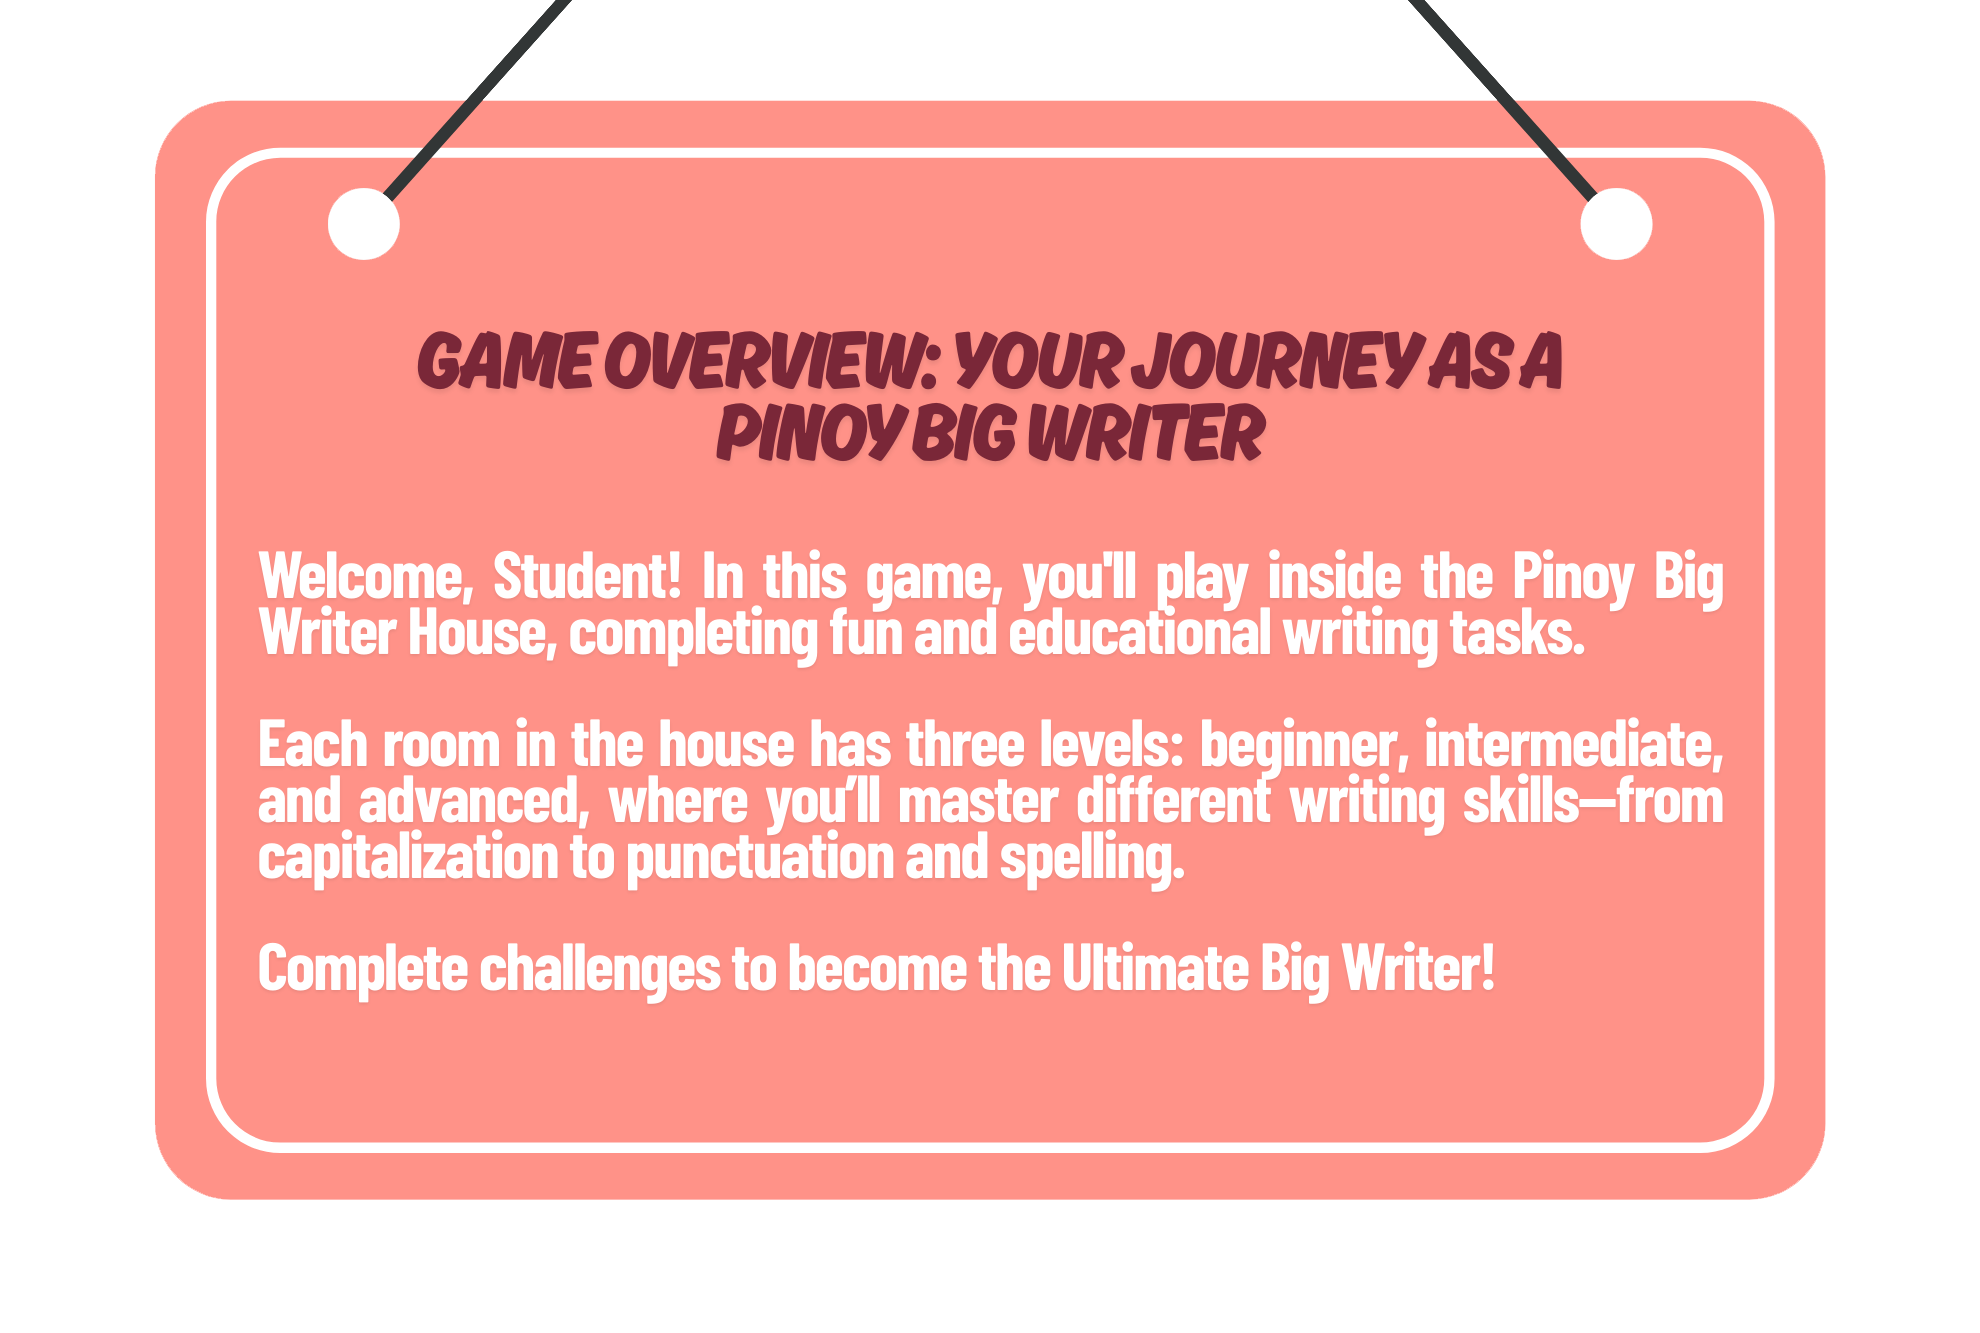
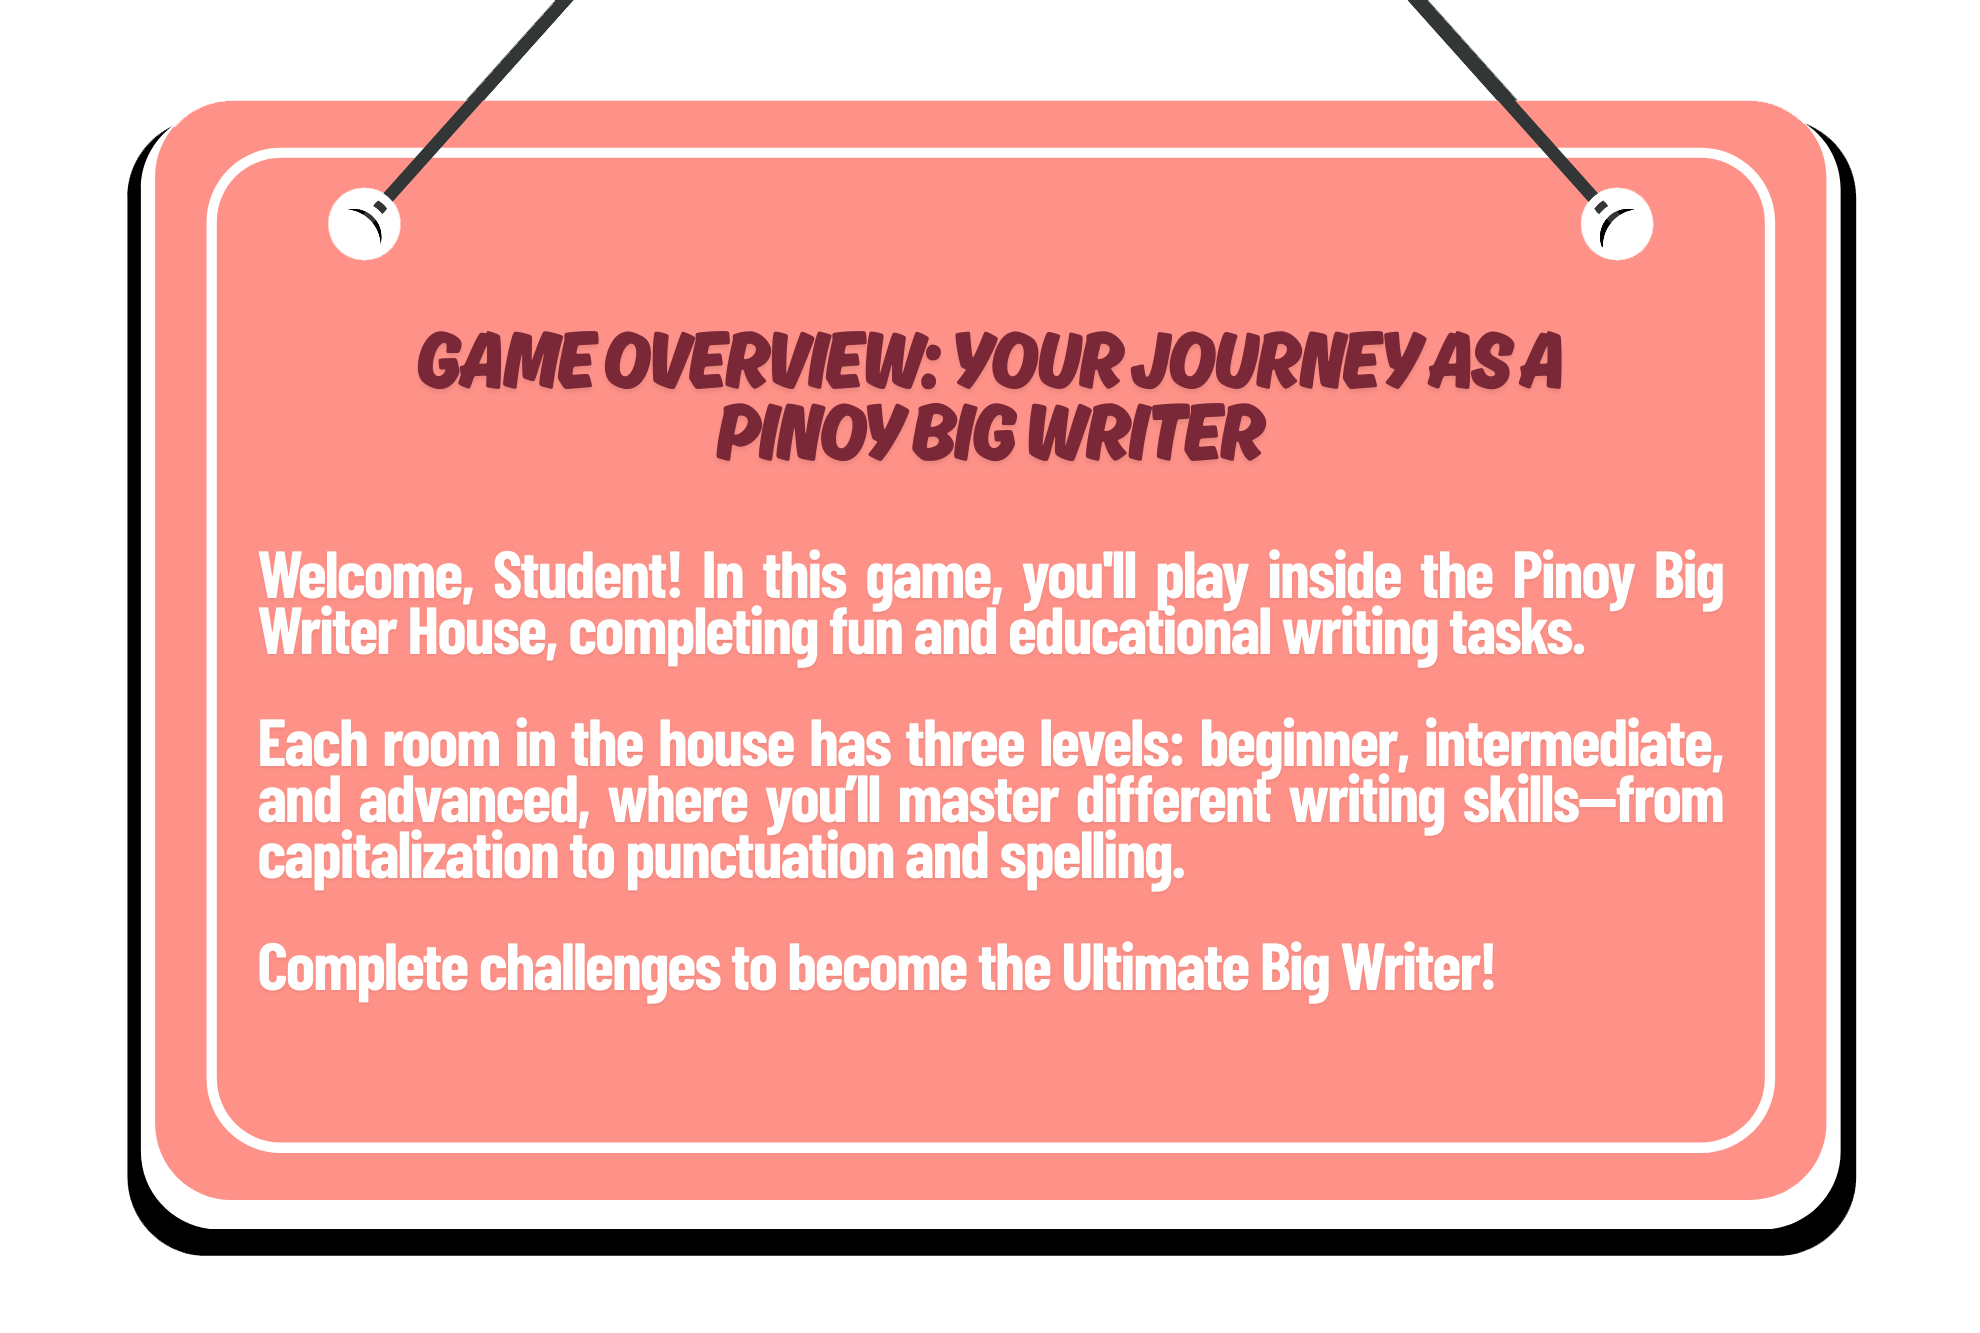
feat: updated overview with borders

Changed region(s): [[0.0616, 0.0923, 0.9551, 0.9535], [0.801, 0.1538, 0.8318, 0.1845], [0.1848, 0.1538, 0.2157, 0.1845]]

diff --git a/src/pages/Home.tsx b/src/pages/Home.tsx
@@ -1,86 +1,102 @@
-import { FaStar, FaCog, FaUser } from "react-icons/fa";
-import { MdAssignment } from "react-icons/md";
-import { BsDoorOpenFill } from "react-icons/bs";
-import { PiVaultFill } from "react-icons/pi";
-import { motion } from "framer-motion";
-import { Link } from "react-router-dom";
+import { useState } from "react";
+import { FaCogs, FaUsers } from "react-icons/fa";
 
-export default function Home() {
+export default function GameUI() {
+  const [selectedOption, setSelectedOption] = useState<string | null>(null);
+
   return (
-    <div className="min-h-screen bg-white p-4 font-sans stripes">
-      {/* Header */}
-      <div className="flex justify-between items-center mb-6">
-        <Link
-          to="/settings"
-          className="w-10 h-10 inline-flex items-center justify-center rounded-md text-gray-600 hover:scale-90"
-        >
-          <FaCog className="w-40 h-40" />
-        </Link>
-
-        <Link
-          to="/profile"
-          className="w-10 h-10 inline-flex items-center justify-center rounded-md text-yellow-500 hover:scale-90"
-        >
-          <FaUser className="w-10 h-10" />
-        </Link>
+    <div className="relative w-full h-screen bg-purple-700 overflow-hidden">
+      {/* Menu and Settings Buttons */}
+      <div className="absolute top-8 left-8 p-2 bg-teal-400 rounded-lg shadow-lg">
+        <FaCogs size={32} className="text-white" />
+      </div>
+      <div className="absolute top-28 left-8 p-2 bg-teal-400 rounded-lg shadow-lg">
+        <FaUsers size={32} className="text-white" />
       </div>
 
-      {/* Title */}
-      <motion.div
-        className="flex justify-center mb-8"
-        initial={{ opacity: 0, y: -30 }}
-        animate={{ opacity: 1, y: 0 }}
-        transition={{ duration: 0.5, delay: 0.4 }}
-      >
-        <img src="brand.png" alt="" className="w-[30%]" />
-      </motion.div>
+      {/* Currency Display */}
+      <div className="absolute top-6 left-1/2 transform -translate-x-1/2 flex space-x-4">
+        <div className="flex items-center px-4 py-2 bg-gray-800 rounded-full shadow-lg">
+          <div className="w-6 h-6 bg-blue-400 rounded-full mr-2"></div>
+          <span className="text-white font-bold">45</span>
+        </div>
+        <div className="flex items-center px-4 py-2 bg-gray-800 rounded-full shadow-lg">
+          <div className="w-6 h-6 bg-yellow-300 rounded-full mr-2"></div>
+          <span className="text-white font-bold">45350</span>
+        </div>
+      </div>
 
-      {/* Main Buttons */}
-      <div className="mx-auto flex flex-col items-center gap-8 w-[50%] font-serif">
-        {[
-          {
-            icon: <BsDoorOpenFill className="w-6 h-6 text-green-600" />,
-            label: "Play",
-            path: "/games",
-          },
-          {
-            icon: <PiVaultFill className="w-6 h-6 text-green-600" />,
-            label: "Practice",
-            path: "/vault",
-          },
-          {
-            icon: <FaStar className="w-6 h-6 text-green-600" />,
-            label: "Achievements",
-            path: "/achievements",
-          },
-          {
-            icon: <MdAssignment className="w-6 h-6 text-green-600" />,
-            label: "Overview",
-            path: "/overview",
-          },
-        ].map((card, idx) => (
-          <motion.div
-            key={idx}
-            initial={{ opacity: 0, y: 40 }}
-            animate={{ opacity: 1, y: 0 }}
-            transition={{
-              delay: 0.6 + idx * 0.2,
-              duration: 0.5,
-              type: "spring",
-            }}
-            className="w-full flex justify-center"
+      {/* Ad Button */}
+      <div className="absolute top-8 right-8 bg-yellow-300 p-1 rounded-lg shadow-lg">
+        <div className="border-2 border-white px-2 py-1 rounded flex items-center">
+          <div className="w-8 h-8 bg-blue-400 rounded-full flex items-center justify-center mr-1">
+            <span className="text-xs font-bold">🎮</span>
+          </div>
+          <span className="text-xs font-bold">WATCH AD</span>
+        </div>
+      </div>
+
+      {/* Game Logo */}
+      <div className="absolute top-24 left-1/2 transform -translate-x-1/2 text-center">
+        <div className="relative">
+          <div className="text-6xl font-extrabold flex justify-center">
+            <span className="text-blue-500 drop-shadow-lg">2</span>
+            <span className="text-green-500 drop-shadow-lg">3</span>
+            <span className="text-yellow-400 drop-shadow-lg">4</span>
+          </div>
+          <div className="text-4xl font-extrabold text-white leading-none">
+            PLAYER
+          </div>
+          <div className="text-5xl font-extrabold text-white leading-none">
+            GAMES
+          </div>
+        </div>
+      </div>
+
+      {/* Game Options */}
+      <div className="absolute left-1/2 top-1/2 transform -translate-x-1/2 -translate-y-1/4 flex flex-col items-center space-y-4 w-full max-w-md">
+        {/* 1 Player Option */}
+        <button
+          className="w-3/4 max-w-xs bg-gradient-to-r from-red-500 to-red-600 rounded-xl border-4 border-red-400 shadow-lg transform hover:scale-105 transition"
+          onClick={() => setSelectedOption("1player")}
+        >
+          <div className="py-3 text-center">
+            <div className="text-4xl font-bold text-white">1</div>
+            <div className="text-xl font-bold text-white">PLAYER</div>
+          </div>
+        </button>
+
+        {/* 2-3-4 Players Option */}
+        <button
+          className="w-3/4 max-w-xs bg-gradient-to-r from-blue-500 to-blue-600 rounded-xl border-4 border-blue-400 shadow-lg transform hover:scale-105 transition"
+          onClick={() => setSelectedOption("234players")}
+        >
+          <div className="py-3 text-center flex justify-center">
+            <div className="flex items-center justify-center">
+              <span className="text-4xl font-bold text-white px-2">2</span>
+              <span className="text-4xl font-bold text-white px-2">3</span>
+              <span className="text-4xl font-bold text-white px-2">4</span>
+            </div>
+          </div>
+          <div className="text-xl font-bold text-white">PLAYERS</div>
+        </button>
+
+        {/* Team vs Team Option */}
+        <div className="w-3/4 max-w-xs text-center">
+          <div className="bg-gray-300 rounded-full py-1 px-4 text-sm font-bold inline-block mb-2">
+            TEAM vs TEAM
+          </div>
+          <button
+            className="w-full bg-gradient-to-r from-yellow-400 to-yellow-500 rounded-xl border-4 border-yellow-300 shadow-lg transform hover:scale-105 transition"
+            onClick={() => setSelectedOption("4players")}
           >
-            <Link
-              to={card.path}
-              className="flex items-center justify-center gap-4 px-4 py-2 bg-[#F5BF2F] rounded-lg text-4xl text-white uppercase w-1/2 hover:scale-90 cursor-pointer"
-            >
-              <span className="font-semibold">{card.label}</span>
-            </Link>
-          </motion.div>
-        ))}
+            <div className="py-3 text-center">
+              <div className="text-4xl font-bold text-white">4</div>
+              <div className="text-xl font-bold text-white">PLAYERS</div>
+            </div>
+          </button>
+        </div>
       </div>
-
-      {/* <img src="books.png" className="absolute bottom-0 left-0 w-full" /> */}
     </div>
   );
 }

diff --git a/src/pages/Overview.tsx b/src/pages/Overview.tsx
@@ -20,11 +20,11 @@ function Overview() {
         }}
       >
         <motion.button
-          className="absolute bottom-5 right-5 flex items-center gap-2 bg-red-400 px-6 py-3 text-white font-bold text-2xl rounded-lg hover:bg-white hover:text-red-400 hover:scale-90"
+          className="absolute bottom-5 right-5 flex items-center gap-2 bg-red-400 px-6 py-3 text-white font-bold text-2xl rounded-lg border-4 border-white shadow-[4px_4px_0_0_#000] hover:bg-white hover:text-red-400 hover:scale-90"
           initial={{ scale: 1 }}
           whileTap={{ scale: 0.9 }}
           animate={{
-            scale: [1, 1.1, 1, 1.1, 1],
+            scale: [1, 1.1],
             transition: {
               duration: 2,
               ease: "easeInOut",
